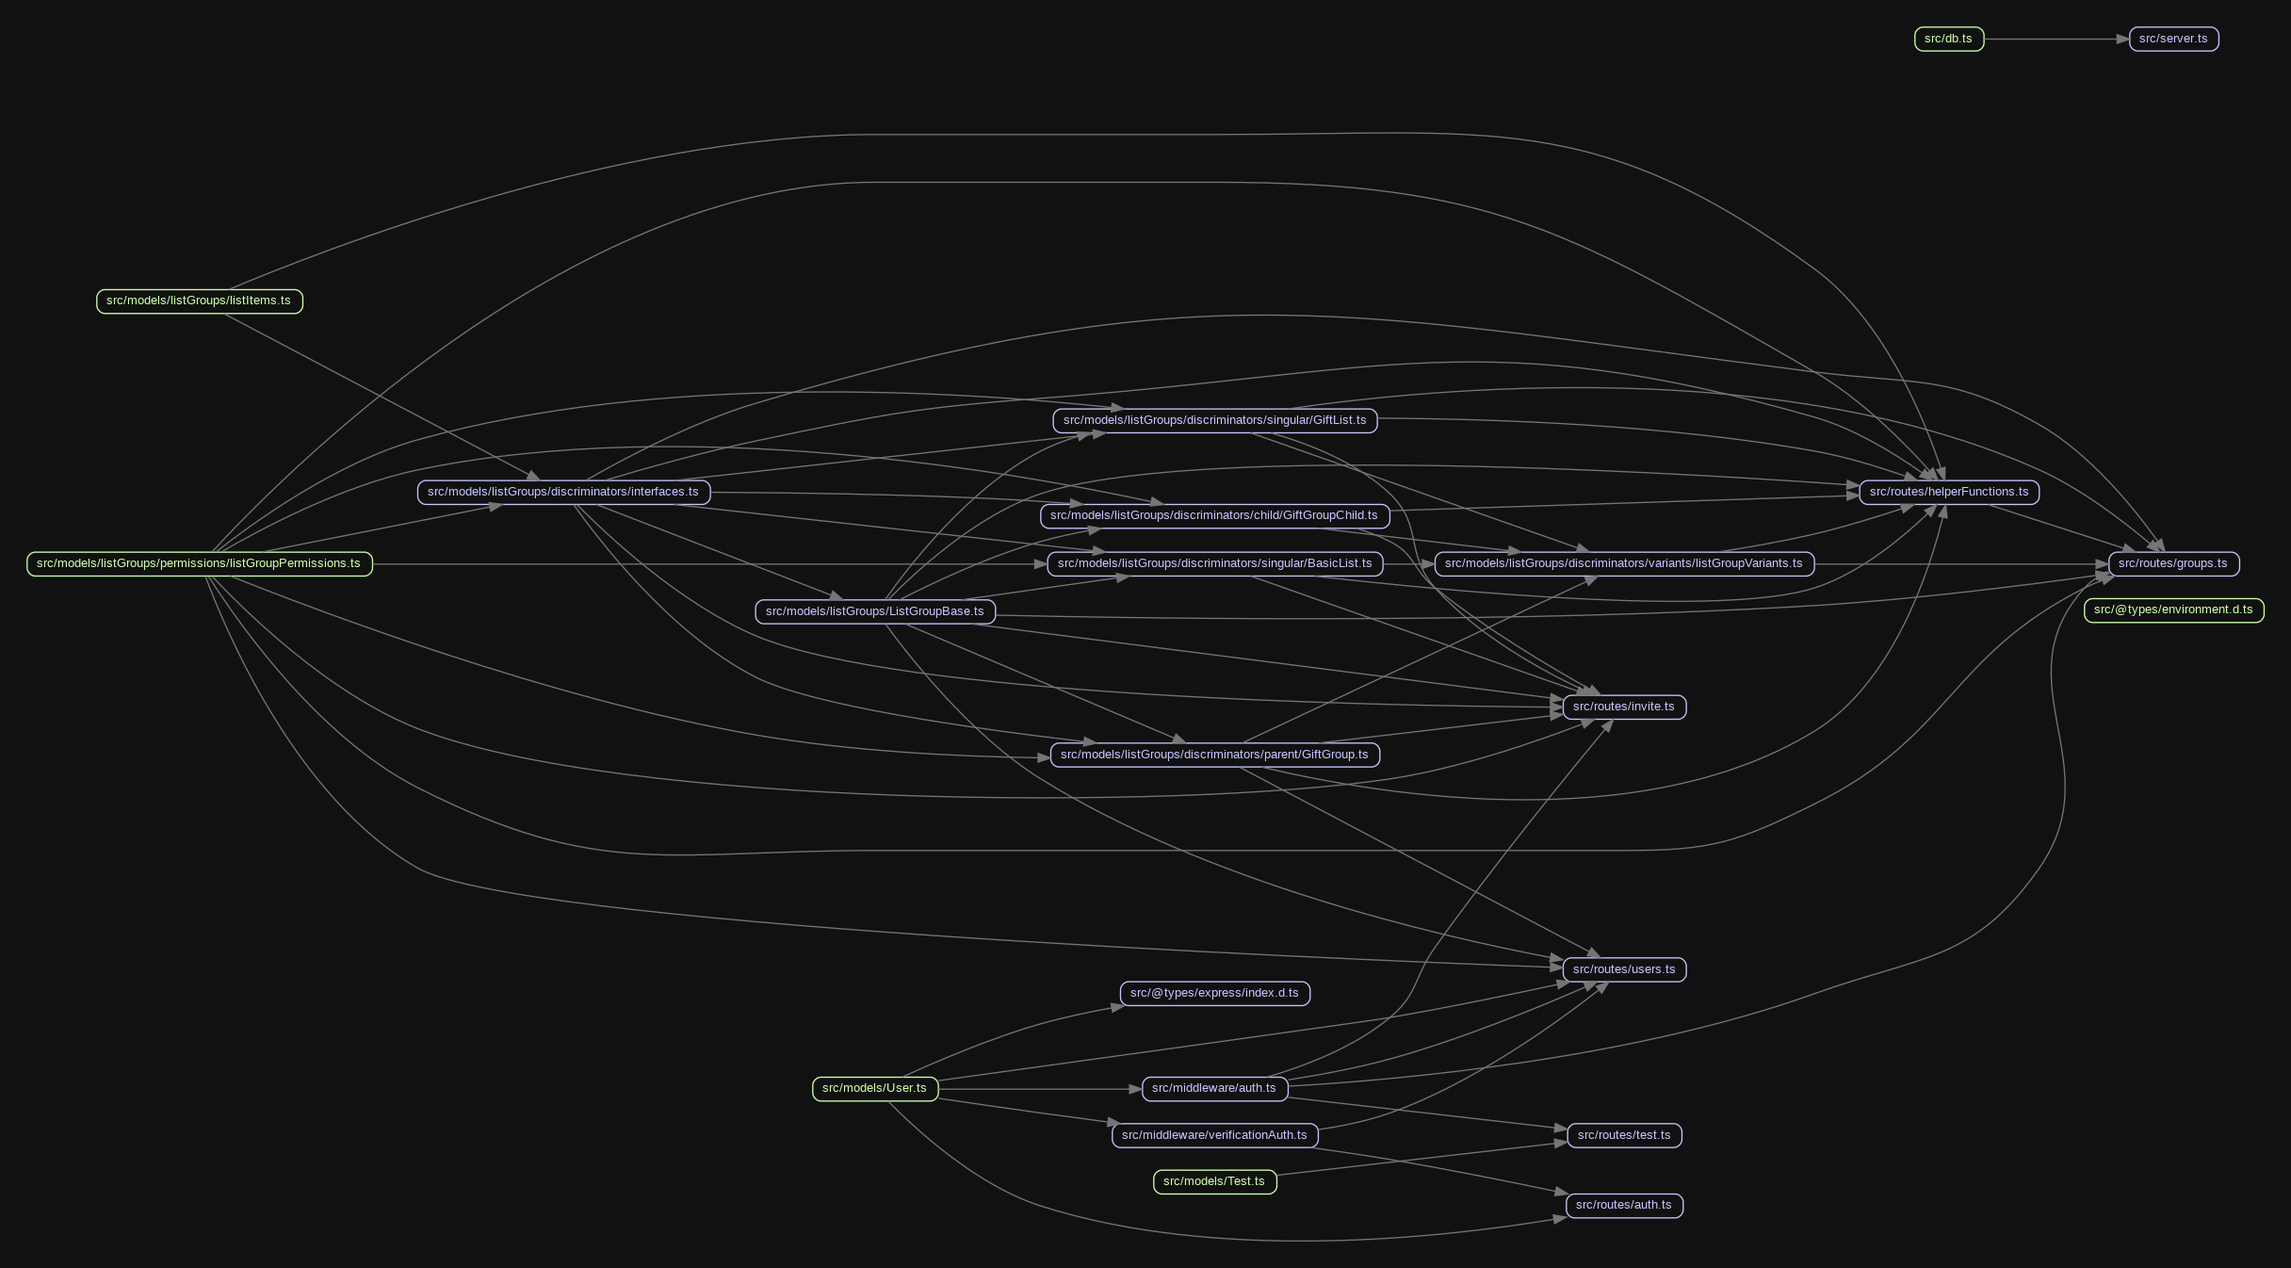
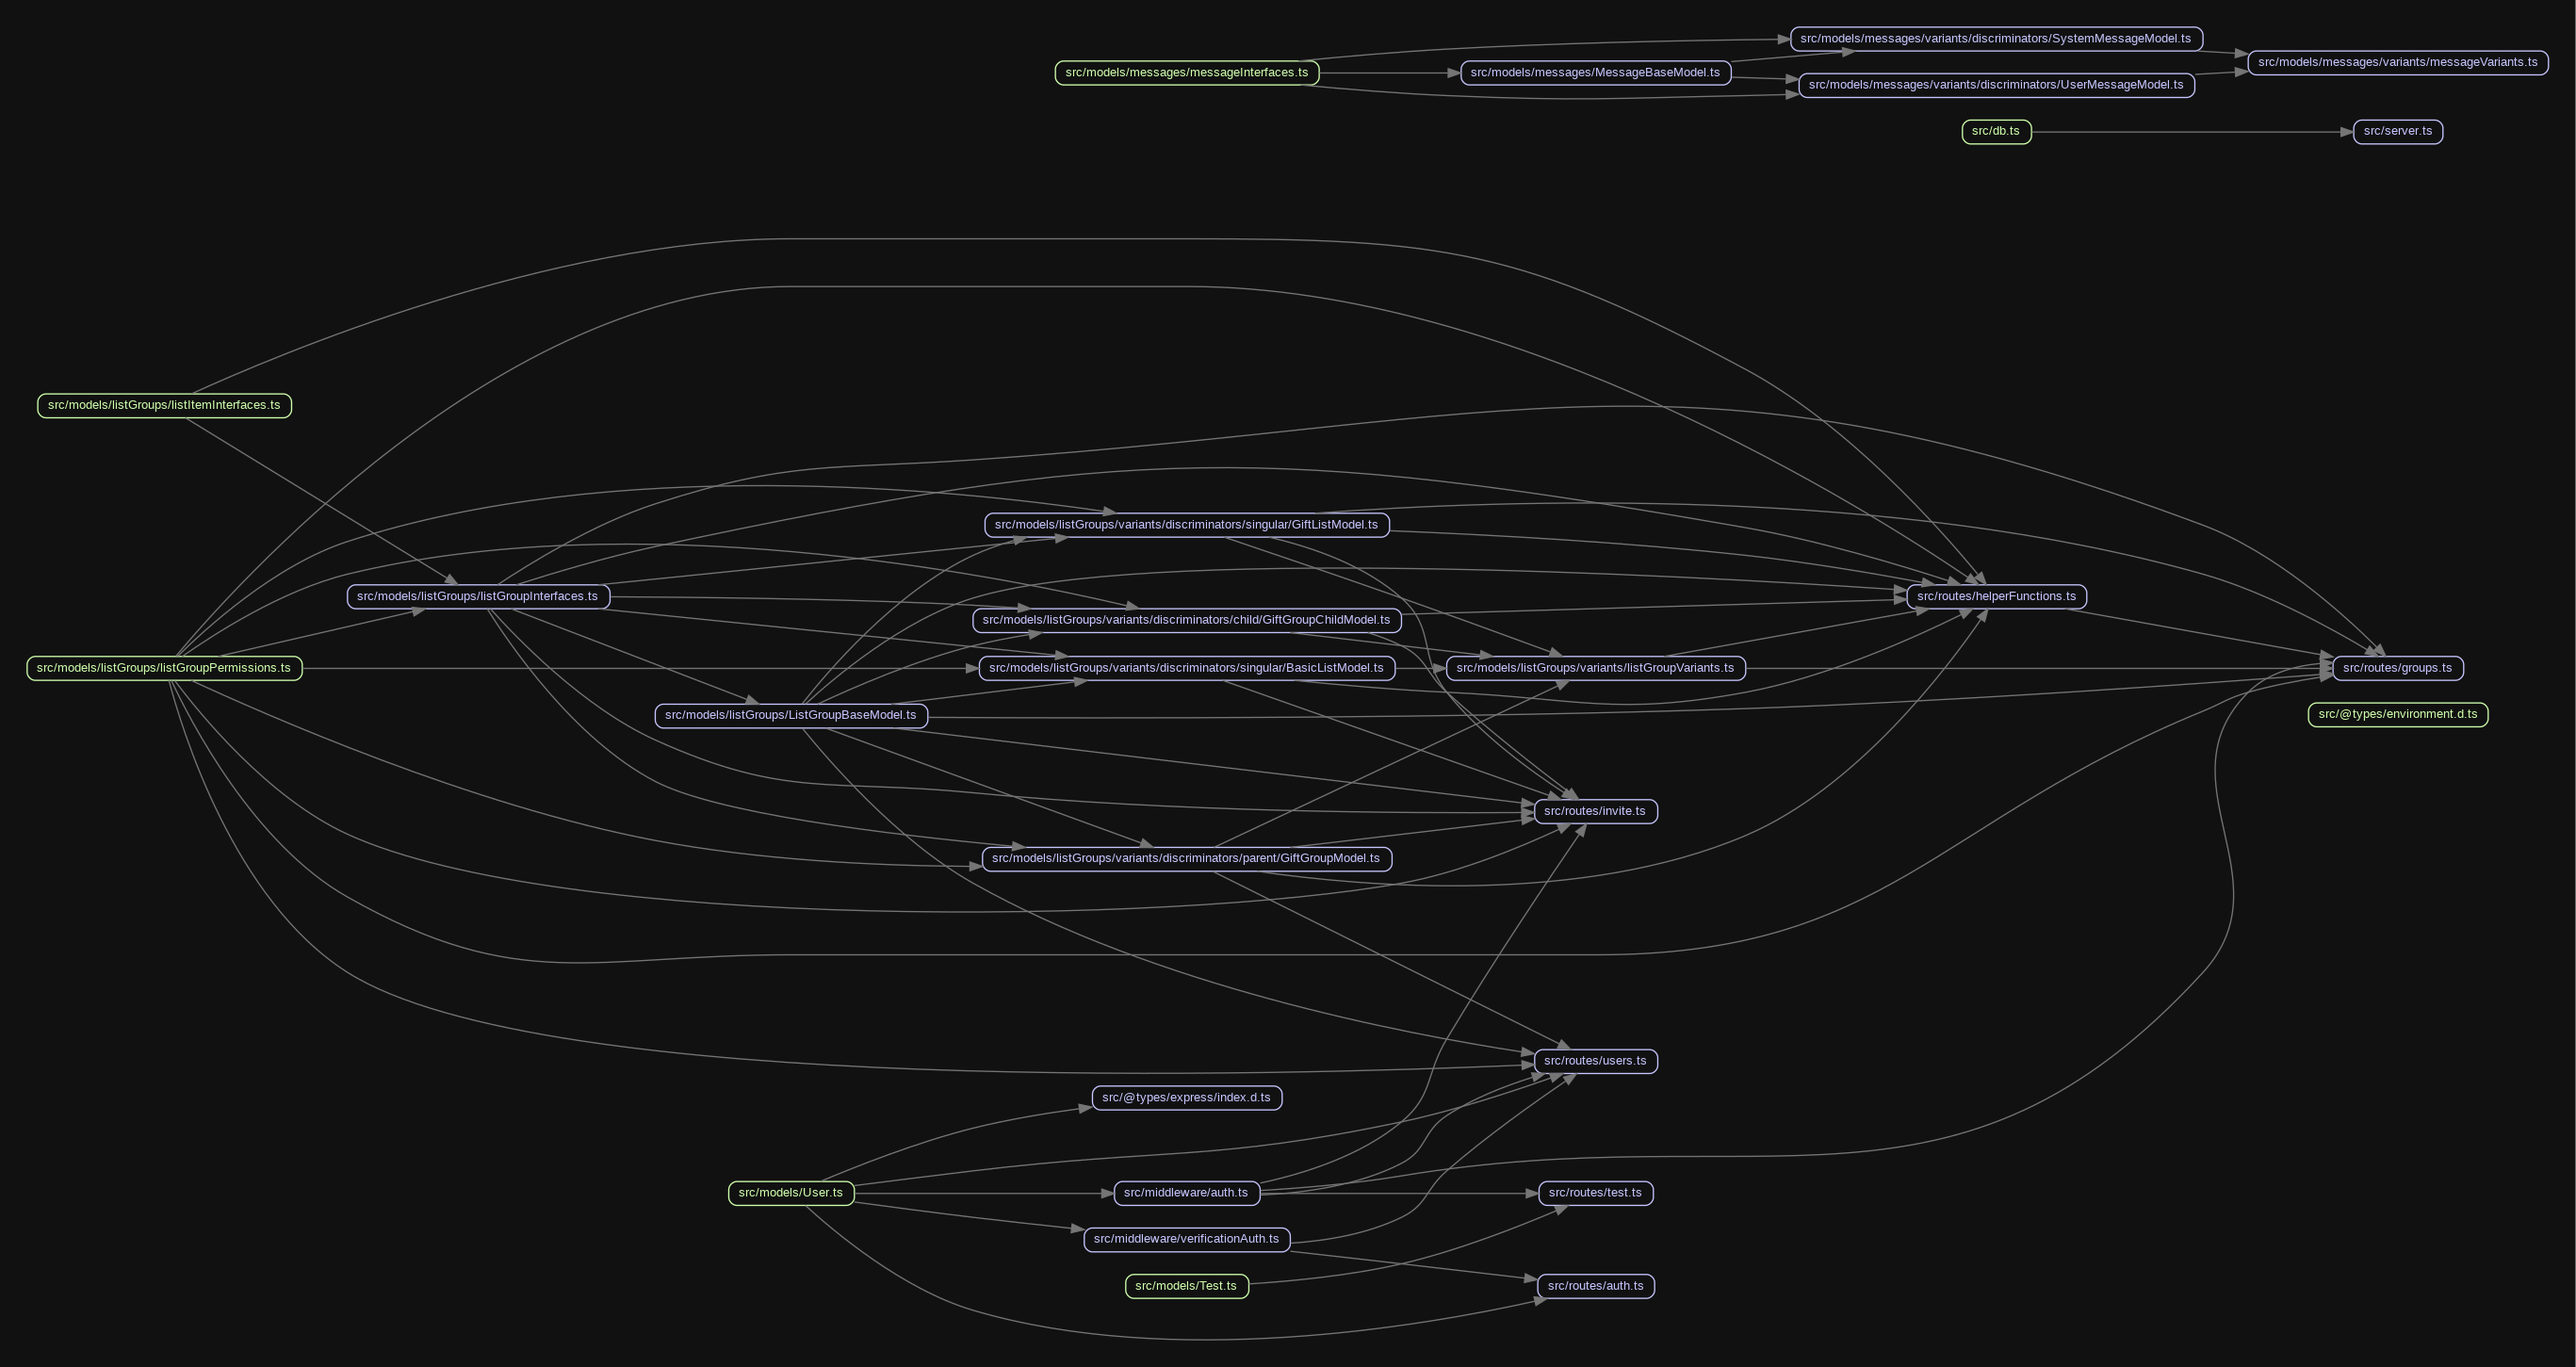
Reorganised model folder structure

diff --git a/src/routes/helperFunctions.ts b/src/routes/helperFunctions.ts
@@ -1,7 +1,10 @@
 import mongoose, { Schema } from 'mongoose';
-import { GiftGroupChildModel, GIFT_GROUP_CHILD } from '../models/listGroups/discriminators/child/GiftGroupChild';
-import { ListGroupBaseModel } from '../models/listGroups/ListGroupBase';
-import { GiftGroupModel, GIFT_GROUP } from '../models/listGroups/discriminators/parent/GiftGroup';
+import {
+    GiftGroupChildModel,
+    GIFT_GROUP_CHILD,
+} from '../models/listGroups/variants/discriminators/child/GiftGroupChildModel';
+import { ListGroupBaseModel } from '../models/listGroups/ListGroupBaseModel';
+import { GiftGroupModel, GIFT_GROUP } from '../models/listGroups/variants/discriminators/parent/GiftGroupModel';
 import {
     basicListOwnerBasePerms,
     giftGroupChildOwnerBasePerms,
@@ -11,11 +14,8 @@ import {
     PERM_GROUP_DELETE,
     PERM_GROUP_RW_LIST_ITEMS,
     PERM_GROUP_RW_SECRET_LIST_ITEMS,
-} from '../models/listGroups/permissions/listGroupPermissions';
-import {
-    LIST_GROUP_CHILD_VARIANTS,
-    LIST_GROUP_PARENT_VARIANTS,
-} from '../models/listGroups/discriminators/variants/listGroupVariants';
+} from '../models/listGroups/listGroupPermissions';
+import { LIST_GROUP_CHILD_VARIANTS, LIST_GROUP_PARENT_VARIANTS } from '../models/listGroups/variants/listGroupVariants';
 import {
     IbasicListMember,
     IgiftGroupChildMember,
@@ -31,10 +31,10 @@ import {
     TnewGiftGroupChildFields,
     TnewGiftGroupFields,
     TnewGiftListFields,
-} from '../models/listGroups/discriminators/interfaces';
-import { TitemTypes, TListItem, TnewListItemFields } from '../models/listGroups/listItems';
-import { BasicListModel, BASIC_LIST } from '../models/listGroups/discriminators/singular/BasicList';
-import { GiftListModel, GIFT_LIST } from '../models/listGroups/discriminators/singular/GiftList';
+} from '../models/listGroups/listGroupInterfaces';
+import { TitemTypes, TListItem, TnewListItemFields } from '../models/listGroups/listItemInterfaces';
+import { BasicListModel, BASIC_LIST } from '../models/listGroups/variants/discriminators/singular/BasicListModel';
+import { GiftListModel, GIFT_LIST } from '../models/listGroups/variants/discriminators/singular/GiftListModel';
 import { Response } from 'express';
 
 export interface IgroupDeletionResult {

diff --git a/src/routes/invite.ts b/src/routes/invite.ts
@@ -3,25 +3,28 @@ import { authMiddleware } from '../middleware/auth';
 import jwt from 'jsonwebtoken';
 import sendgrid from '@sendgrid/mail';
 import { check, Result, ValidationError, validationResult } from 'express-validator';
-import { ListGroupBaseModel } from '../models/listGroups/ListGroupBase';
+import { ListGroupBaseModel } from '../models/listGroups/ListGroupBaseModel';
 import {
     giftGroupChildMemberBasePerms,
     giftGroupMemberBasePerms,
     basicListMemberBasePerms,
     giftListMemberBasePerms,
     PERM_GROUP_INVITE,
-} from '../models/listGroups/permissions/listGroupPermissions';
-import { BasicListModel, BASIC_LIST } from '../models/listGroups/discriminators/singular/BasicList';
-import { GiftGroupChildModel, GIFT_GROUP_CHILD } from '../models/listGroups/discriminators/child/GiftGroupChild';
-import { GiftGroupModel, GIFT_GROUP } from '../models/listGroups/discriminators/parent/GiftGroup';
-import { GiftListModel, GIFT_LIST } from '../models/listGroups/discriminators/singular/GiftList';
+} from '../models/listGroups/listGroupPermissions';
+import { BasicListModel, BASIC_LIST } from '../models/listGroups/variants/discriminators/singular/BasicListModel';
+import {
+    GiftGroupChildModel,
+    GIFT_GROUP_CHILD,
+} from '../models/listGroups/variants/discriminators/child/GiftGroupChildModel';
+import { GiftGroupModel, GIFT_GROUP } from '../models/listGroups/variants/discriminators/parent/GiftGroupModel';
+import { GiftListModel, GIFT_LIST } from '../models/listGroups/variants/discriminators/singular/GiftListModel';
 import {
     IbasicListMember,
     IgiftGroupChildMember,
     IgiftGroupMember,
     IgiftListMember,
     invalidGroupVariantError,
-} from '../models/listGroups/discriminators/interfaces';
+} from '../models/listGroups/listGroupInterfaces';
 
 const router: Router = express.Router();
 sendgrid.setApiKey(process.env.SENDGRID_API_KEY);

diff --git a/src/models/listGroups/variants/discriminators/singular/GiftListModel.ts b/src/models/listGroups/variants/discriminators/singular/GiftListModel.ts
@@ -1,28 +1,24 @@
 import { Schema } from 'mongoose';
-import { ListGroupBaseModel } from '../../ListGroupBase';
-import { PERM_GIFT_GROUP_CHILD_ALL } from '../../permissions/listGroupPermissions';
-import { TgiftGroupChildDocument } from '../interfaces';
+import { ListGroupBaseModel } from '../../../ListGroupBaseModel';
+import { PERM_GIFT_LIST_ALL } from '../../../listGroupPermissions';
+import { TgiftListDocument } from '../../../listGroupInterfaces';
 
-export const GIFT_GROUP_CHILD = 'GIFT_GROUP_CHILD';
+export const GIFT_LIST = 'GIFT_LIST';
 
-const giftGroupChildSchema = new Schema<TgiftGroupChildDocument>({
+const giftListSchema = new Schema<TgiftListDocument>({
     owner: {
         userId: { type: Schema.Types.ObjectId, required: true },
-        permissions: [{ type: String, required: true, enum: PERM_GIFT_GROUP_CHILD_ALL }],
+        permissions: [{ type: String, required: true, enum: PERM_GIFT_LIST_ALL }],
         oldestUnreadMsg: { type: Date },
     },
     members: [
         {
             userId: { type: Schema.Types.ObjectId, required: true },
-            permissions: [{ type: String, required: true, enum: PERM_GIFT_GROUP_CHILD_ALL }],
+            permissions: [{ type: String, required: true, enum: PERM_GIFT_LIST_ALL }],
             oldestUnreadMsg: { type: Date },
             _id: false,
         },
     ],
-    parentGroupId: {
-        type: Schema.Types.ObjectId,
-        required: true,
-    },
     maxListItems: { type: Number, required: true, default: 20 },
     listItems: [
         {
@@ -45,4 +41,4 @@ const giftGroupChildSchema = new Schema<TgiftGroupChildDocument>({
     ],
 });
 
-export const GiftGroupChildModel = ListGroupBaseModel.discriminator(GIFT_GROUP_CHILD, giftGroupChildSchema);
+export const GiftListModel = ListGroupBaseModel.discriminator(GIFT_LIST, giftListSchema);

diff --git a/src/models/listGroups/variants/discriminators/child/GiftGroupChildModel.ts b/src/models/listGroups/variants/discriminators/child/GiftGroupChildModel.ts
@@ -1,24 +1,28 @@
 import { Schema } from 'mongoose';
-import { ListGroupBaseModel } from '../../ListGroupBase';
-import { PERM_GIFT_LIST_ALL } from '../../permissions/listGroupPermissions';
-import { TgiftListDocument } from '../interfaces';
+import { ListGroupBaseModel } from '../../../ListGroupBaseModel';
+import { PERM_GIFT_GROUP_CHILD_ALL } from '../../../listGroupPermissions';
+import { TgiftGroupChildDocument } from '../../../listGroupInterfaces';
 
-export const GIFT_LIST = 'GIFT_LIST';
+export const GIFT_GROUP_CHILD = 'GIFT_GROUP_CHILD';
 
-const giftListSchema = new Schema<TgiftListDocument>({
+const giftGroupChildSchema = new Schema<TgiftGroupChildDocument>({
     owner: {
         userId: { type: Schema.Types.ObjectId, required: true },
-        permissions: [{ type: String, required: true, enum: PERM_GIFT_LIST_ALL }],
+        permissions: [{ type: String, required: true, enum: PERM_GIFT_GROUP_CHILD_ALL }],
         oldestUnreadMsg: { type: Date },
     },
     members: [
         {
             userId: { type: Schema.Types.ObjectId, required: true },
-            permissions: [{ type: String, required: true, enum: PERM_GIFT_LIST_ALL }],
+            permissions: [{ type: String, required: true, enum: PERM_GIFT_GROUP_CHILD_ALL }],
             oldestUnreadMsg: { type: Date },
             _id: false,
         },
     ],
+    parentGroupId: {
+        type: Schema.Types.ObjectId,
+        required: true,
+    },
     maxListItems: { type: Number, required: true, default: 20 },
     listItems: [
         {
@@ -41,4 +45,4 @@ const giftListSchema = new Schema<TgiftListDocument>({
     ],
 });
 
-export const GiftListModel = ListGroupBaseModel.discriminator(GIFT_LIST, giftListSchema);
+export const GiftGroupChildModel = ListGroupBaseModel.discriminator(GIFT_GROUP_CHILD, giftGroupChildSchema);

diff --git a/src/routes/groups.ts b/src/routes/groups.ts
@@ -1,7 +1,7 @@
 import express, { Router, Request, Response } from 'express';
 import { authMiddleware } from '../middleware/auth';
 import { check, Result, ValidationError, validationResult, oneOf } from 'express-validator';
-import { ListGroupBaseModel } from '../models/listGroups/ListGroupBase';
+import { ListGroupBaseModel } from '../models/listGroups/ListGroupBaseModel';
 import {
     PERM_GROUP_ADMIN,
     PERM_MODIFIERS_ALL,
@@ -12,12 +12,9 @@ import {
     PERM_GROUP_RW_SECRET_LIST_ITEMS,
     PERM_GROUP_SELECT_LIST_ITEMS,
     PERM_GROUP_SELECT_SECRET_LIST_ITEMS,
-} from '../models/listGroups/permissions/listGroupPermissions';
-import {
-    LIST_GROUP_ALL_VARIANTS,
-    LIST_GROUP_CHILD_VARIANTS,
-} from '../models/listGroups/discriminators/variants/listGroupVariants';
-import { GIFT_LIST } from '../models/listGroups/discriminators/singular/GiftList';
+} from '../models/listGroups/listGroupPermissions';
+import { LIST_GROUP_ALL_VARIANTS, LIST_GROUP_CHILD_VARIANTS } from '../models/listGroups/variants/listGroupVariants';
+import { GIFT_LIST } from '../models/listGroups/variants/discriminators/singular/GiftListModel';
 import {
     addGroup,
     deleteGroupAndAnyChildGroups,
@@ -26,7 +23,7 @@ import {
     handleNewListItemRequest,
     handleNewSecretListItemRequest,
 } from './helperFunctions';
-import { TlistGroupAny } from '../models/listGroups/discriminators/interfaces';
+import { TlistGroupAny } from '../models/listGroups/listGroupInterfaces';
 
 const router: Router = express.Router();
 

diff --git a/src/routes/users.ts b/src/routes/users.ts
@@ -6,10 +6,10 @@ import bcrypt from 'bcryptjs';
 import jwt from 'jsonwebtoken';
 import sendgrid from '@sendgrid/mail';
 import { unverifiedUserAuthMiddleware } from '../middleware/verificationAuth';
-import { ListGroupBaseModel } from '../models/listGroups/ListGroupBase';
-import { PERM_GROUP_DELETE } from '../models/listGroups/permissions/listGroupPermissions';
+import { ListGroupBaseModel } from '../models/listGroups/ListGroupBaseModel';
+import { PERM_GROUP_DELETE } from '../models/listGroups/listGroupPermissions';
 
-import { GiftGroupModel } from '../models/listGroups/discriminators/parent/GiftGroup';
+import { GiftGroupModel } from '../models/listGroups/variants/discriminators/parent/GiftGroupModel';
 import { authMiddleware } from '../middleware/auth';
 
 sendgrid.setApiKey(process.env.SENDGRID_API_KEY);

diff --git a/src/models/listGroups/variants/listGroupVariants.ts b/src/models/listGroups/variants/listGroupVariants.ts
@@ -1,7 +1,7 @@
-import { GIFT_GROUP_CHILD } from '../child/GiftGroupChild';
-import { GIFT_GROUP } from '../parent/GiftGroup';
-import { BASIC_LIST } from '../singular/BasicList';
-import { GIFT_LIST } from '../singular/GiftList';
+import { GIFT_GROUP_CHILD } from './discriminators/child/GiftGroupChildModel';
+import { GIFT_GROUP } from './discriminators/parent/GiftGroupModel';
+import { BASIC_LIST } from './discriminators/singular/BasicListModel';
+import { GIFT_LIST } from './discriminators/singular/GiftListModel';
 
 export const LIST_GROUP_SINGLE_VARIANTS = [BASIC_LIST, GIFT_LIST];
 export const LIST_GROUP_PARENT_VARIANTS = [GIFT_GROUP];

diff --git a/src/models/listGroups/variants/discriminators/parent/GiftGroupModel.ts b/src/models/listGroups/variants/discriminators/parent/GiftGroupModel.ts
@@ -1,7 +1,7 @@
 import { Schema } from 'mongoose';
-import { ListGroupBaseModel } from '../../ListGroupBase';
-import { PERM_GIFT_GROUP_ALL } from '../../permissions/listGroupPermissions';
-import { TgiftGroupDocument } from '../interfaces';
+import { ListGroupBaseModel } from '../../../ListGroupBaseModel';
+import { PERM_GIFT_GROUP_ALL } from '../../../listGroupPermissions';
+import { TgiftGroupDocument } from '../../../listGroupInterfaces';
 
 export const GIFT_GROUP = 'GIFT_GROUP';
 

diff --git a/src/models/listGroups/variants/discriminators/singular/BasicListModel.ts b/src/models/listGroups/variants/discriminators/singular/BasicListModel.ts
@@ -1,7 +1,7 @@
 import { Schema } from 'mongoose';
-import { ListGroupBaseModel } from '../../ListGroupBase';
-import { PERM_BASIC_LIST_ALL } from '../../permissions/listGroupPermissions';
-import { TbasicListDocument } from '../interfaces';
+import { ListGroupBaseModel } from '../../../ListGroupBaseModel';
+import { PERM_BASIC_LIST_ALL } from '../../../listGroupPermissions';
+import { TbasicListDocument } from '../../../listGroupInterfaces';
 
 export const BASIC_LIST = 'BASIC_LIST';
 

diff --git a/src/models/listGroups/listGroupInterfaces.ts b/src/models/listGroups/listGroupInterfaces.ts
@@ -1,12 +1,12 @@
 import { Document, Schema } from 'mongoose';
-import { TListItem } from '../listItems';
+import { TListItem } from './listItemInterfaces';
 import {
     TYPE_PERM_ALL_LIST_GROUP,
     TYPE_PERM_BASIC_LIST_ALL,
     TYPE_PERM_GIFT_GROUP_ALL,
     TYPE_PERM_GIFT_GROUP_CHILD_ALL,
     TYPE_PERM_GIFT_LIST_ALL,
-} from '../permissions/listGroupPermissions';
+} from './listGroupPermissions';
 
 // Base
 export class invalidGroupVariantError extends Error {

diff --git a/src/models/messages/messageInterfaces.ts b/src/models/messages/messageInterfaces.ts
@@ -1,11 +1,6 @@
 import { Document, Schema } from 'mongoose';
 
 // Base model
-import { SYSTEM_MESSAGE } from './discriminators/SystemMessage';
-import { USER_MESSAGE } from './discriminators/UserMessage';
-
-export const MESSAGE_VARIANTS = [USER_MESSAGE, SYSTEM_MESSAGE];
-
 export const MESSAGE_DISCRIMINATOR = 'messageVariant';
 type TmessageDiscriminatorKey = { MESSAGE_DISCRIMINATOR: string };
 

diff --git a/src/models/messages/variants/discriminators/SystemMessageModel.ts b/src/models/messages/variants/discriminators/SystemMessageModel.ts
@@ -1,6 +1,6 @@
 import { Schema } from 'mongoose';
-import { MessageBaseModel } from '../../MessageBase';
-import { TsystemMessageDocument } from '../messageInterfaces';
+import { MessageBaseModel } from '../../MessageBaseModel';
+import { TsystemMessageDocument } from '../../messageInterfaces';
 
 export const SYSTEM_MESSAGE = 'SYSTEM_MESSAGE';
 
